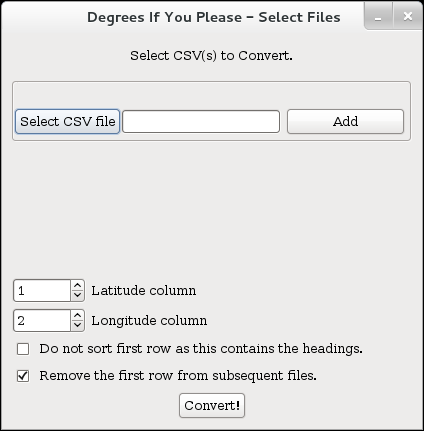
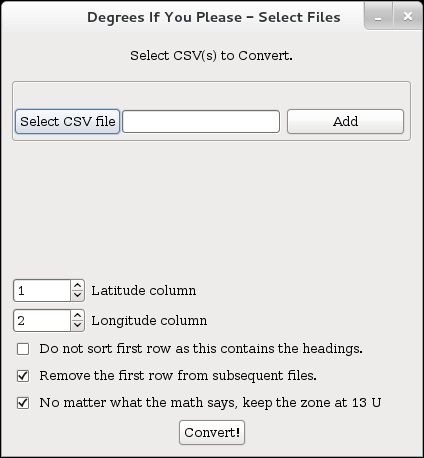
Added ability to keep zone at 13U

diff --git a/degrees-if-you-please.py b/degrees-if-you-please.py
@@ -161,10 +161,14 @@ class mainScreen():
                 f1 = 298.2572236
 
 
-                if ew == "w":
-                    H12 = int((180+longitudeWithSign)/6)+1
+                ## Check if we are to work this out or keep it at 13
+                if self.stayAt13.get_active():
+                    H12 = 13
                 else:
-                    H12 = int(longitudeWithSign/6)+31
+                    if ew == "w":
+                        H12 = int((180+longitudeWithSign)/6)+1
+                    else:
+                        H12 = int(longitudeWithSign/6)+31
 
                 H13 = 6*H12-183
 
@@ -323,6 +327,18 @@ class mainScreen():
         main_vbox.pack_start(removeHeadings_hbox, True, False, 0)
         removeHeadings_hbox.pack_start(self.removeHeadingsCheck, False, False, 0)
         removeHeadings_hbox.pack_start(removeHeadingslabel, False, False, 0)
+        ###
+        self.stayAt13 = gtk.CheckButton()
+        self.stayAt13.set_active(True)
+        
+        stayAt13label = gtk.Label("No matter what the math says, keep the zone at 13 U")
+        stayAt13label.set_alignment(0.5, 0.5)
+        stayAt13label.set_line_wrap(True)
+
+        stayAt13label_hbox = gtk.HBox(False, 5)
+        main_vbox.pack_start(stayAt13label_hbox, True, False, 0)
+        stayAt13label_hbox.pack_start(self.stayAt13, False, False, 0)
+        stayAt13label_hbox.pack_start(stayAt13label, False, False, 0)
         ####Buttons#####
         importButton = gtk.Button("Convert!")
         importButton.connect("clicked", self.convert)
